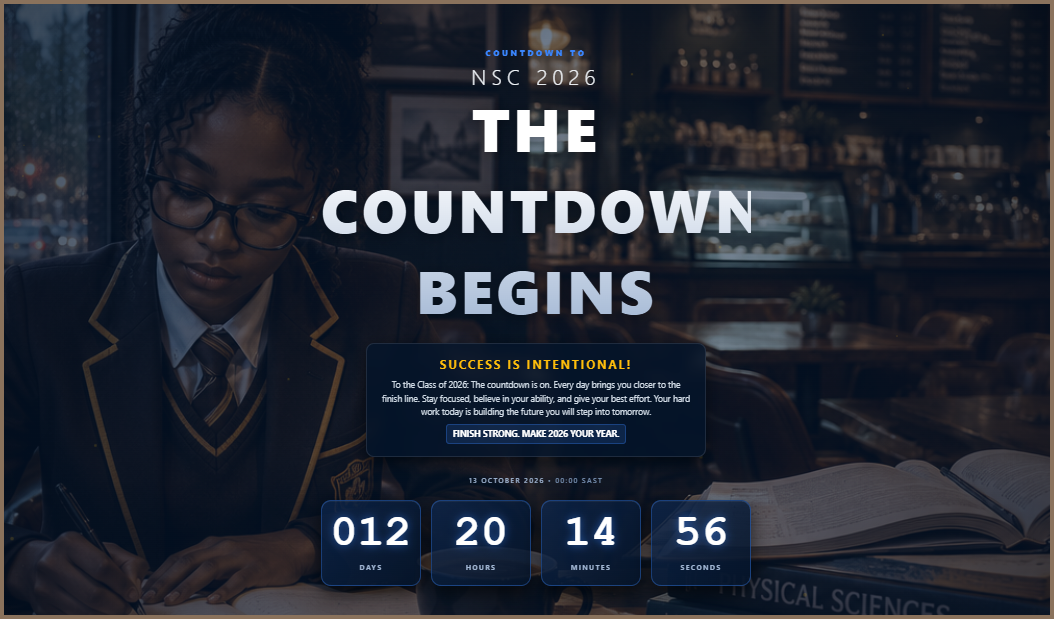
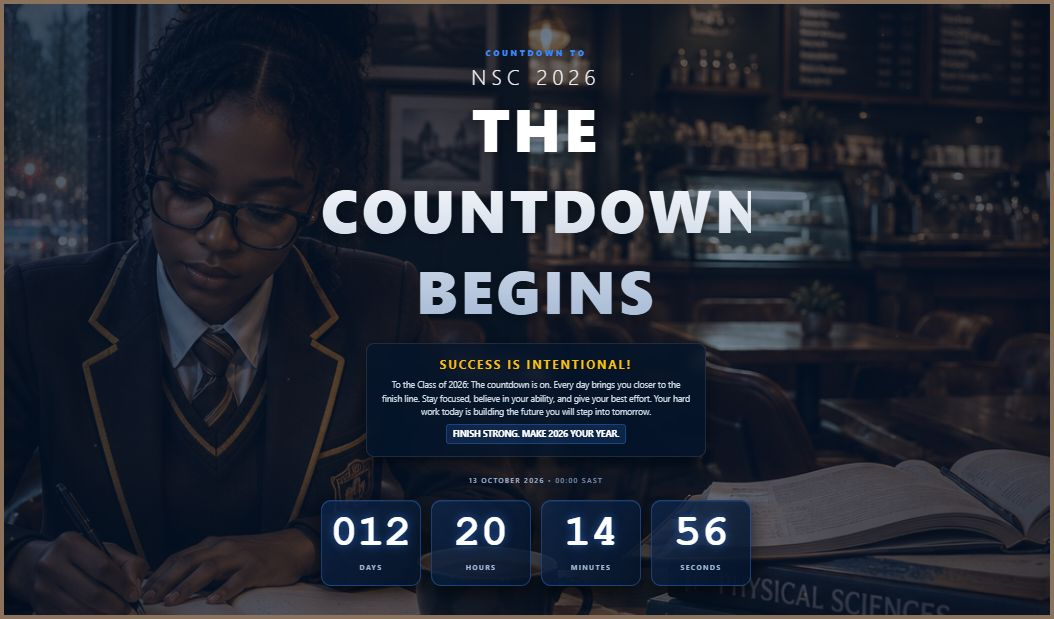
Add files via upload

Changed region(s): [[0.3947, 0.5832, 0.6072, 0.6139], [0.4554, 0.0614, 0.5465, 0.0921], [0.3947, 0.8288, 0.425, 0.9208]]

diff --git a/script.js b/script.js
@@ -1,71 +1,81 @@
 const target = new Date("2026-10-13T00:00:00+02:00").getTime();
-const d = document.getElementById("days"),
-      h = document.getElementById("hours"),
-      m = document.getElementById("minutes"),
-      s = document.getElementById("seconds"),
-      timer = document.getElementById("timer");
-
+const $ = id => document.getElementById(id);
+const d = $("days"), h = $("hours"), m = $("minutes"), s = $("seconds"), timer = $("timer");
+const reduce = matchMedia("(prefers-reduced-motion: reduce)").matches;
 const pad = (n, l = 2) => String(n).padStart(l, "0");
+let finished = false;
 
-// Safe DOM update wrapper to apply micro-scale animations only when time digits tick over
-function setTimeValue(element, newValue) {
-    if (element && element.textContent !== newValue) {
-        element.textContent = newValue;
-        element.classList.remove("pop");
-        void element.offsetWidth; // Explict reflow execution to reset the CSS animation timeline state
-        element.classList.add("pop");
+function setTimeValue(el, v, frac) {
+    if (!el) return;
+    if (el.textContent !== v) {
+        el.textContent = v;
+        el.classList.remove("pop"); void el.offsetWidth; el.classList.add("pop");
     }
+    if (frac !== undefined) el.parentElement.style.setProperty("--p", frac);
 }
 
 function update() {
-    let x = target - Date.now();
-    
-    // Check if the target milestone has arrived or passed
+    const x = target - Date.now();
     if (x <= 0) {
-        if (timer) {
-            timer.innerHTML = `
-                <div style="grid-column: 1 / -1; padding: 40px 20px; border-color: #ffbe0b; background: rgba(255, 190, 11, 0.08); border-radius: 20px;">
-                    <b style="font-family: 'Segoe UI', Arial, sans-serif; font-size: clamp(22px, 4.5vw, 42px); text-shadow: 0 0 25px rgba(255,190,11,0.4); color: #ffbe0b; font-weight: 700; display: block; text-align: center;">
-                        NSC 2026 HAS ARRIVED
-                    </b>
-                </div>`;
-        }
+        if (!finished) { finished = true; finish(); }
         return;
     }
-    
-    let t = Math.floor(x / 1000);
-    
-    setTimeValue(d, pad(Math.floor(t / 86400), 3));
-    setTimeValue(h, pad(Math.floor((t % 86400) / 3600)));
-    setTimeValue(m, pad(Math.floor((t % 3600) / 60)));
-    setTimeValue(s, pad(t % 60));
+    const t = Math.floor(x / 1000);
+    timer.classList.toggle("urgent", x < 864e5);
+    setTimeValue(d, pad(Math.floor(t / 86400), 3), 1);
+    setTimeValue(h, pad(Math.floor((t % 86400) / 3600)), ((t % 86400) / 3600 | 0) / 24 + 0.04);
+    setTimeValue(m, pad(Math.floor((t % 3600) / 60)), ((t % 3600) / 60 | 0) / 60 + 0.02);
+    setTimeValue(s, pad(t % 60), (t % 60) / 60 + 0.02);
 }
 
-// Background Particle Engine
+function finish() {
+    timer.classList.remove("urgent");
+    timer.innerHTML = `<div style="grid-column:1/-1;padding:40px 20px;border-color:#ffbe0b;background:rgba(255,190,11,.1)">
+        <b style="font-size:clamp(34px,7vw,80px);color:#ffbe0b;text-shadow:0 0 30px rgba(255,190,11,.6)">NSC 2026 HAS ARRIVED</b>
+        <small style="color:#fff;font-size:clamp(12px,2vw,18px)">GOOD LUCK, CLASS OF 2026 — FINISH STRONG!</small></div>`;
+    if (!reduce) confetti();
+}
+
+// Bokeh lights
 function initParticles() {
-    const container = document.getElementById("particles");
-    if (!container) return;
-    
-    const count = 35; // Maximum floating background nodes to preserve processing capacity
-    for (let i = 0; i < count; i++) {
-        const particle = document.createElement("div");
-        particle.classList.add("particle");
-        
-        // Randomize sizing constraints between 3px and 9px
-        const size = Math.random() * 6 + 3;
-        particle.style.width = `${size}px`;
-        particle.style.height = `${size}px`;
-        particle.style.left = `${Math.random() * 100}%`;
-        
-        // Stagger generation delays and speeds to distribute flow arrays uniformly
-        particle.style.animationDelay = `${Math.random() * 15}s`;
-        particle.style.animationDuration = `${Math.random() * 10 + 10}s`;
-        
-        container.appendChild(particle);
+    const c = $("particles"); if (!c || reduce) return;
+    for (let i = 0; i < 28; i++) {
+        const p = document.createElement("div"); p.className = "particle";
+        const z = Math.random() * 26 + 8;
+        p.style.cssText = `width:${z}px;height:${z}px;left:${Math.random()*100}%;animation-delay:${-Math.random()*20}s;animation-duration:${Math.random()*14+16}s;opacity:${Math.random()*.5+.3}`;
+        c.appendChild(p);
     }
 }
 
-// Initialization runtime triggers
-initParticles();
-update();
-setInterval(update, 250);
+// Mouse parallax + tile tilt (desktop only)
+function initParallax() {
+    if (reduce || !matchMedia("(hover:hover)").matches) return;
+    const bg = document.querySelector(".bg"), tiles = [...timer.children];
+    addEventListener("pointermove", e => {
+        const x = e.clientX / innerWidth - .5, y = e.clientY / innerHeight - .5;
+        bg.style.translate = `${x * -18}px ${y * -12}px`;
+        tiles.forEach(t => t.style.transform = `perspective(700px) rotateY(${x * 8}deg) rotateX(${y * -8}deg)`);
+    });
+}
+
+// Confetti finale
+function confetti() {
+    const cv = $("confetti"), ctx = cv.getContext("2d");
+    const fit = () => { cv.width = innerWidth; cv.height = innerHeight; }; fit(); addEventListener("resize", fit);
+    const cols = ["#ffbe0b", "#3a86ff", "#ffffff", "#ffd166"];
+    const ps = Array.from({ length: 220 }, () => ({ x: Math.random() * cv.width, y: -Math.random() * cv.height * .6, w: Math.random() * 9 + 5, h: Math.random() * 5 + 4,
+        vy: Math.random() * 3 + 2, vx: Math.random() * 2 - 1, r: Math.random() * 6, vr: Math.random() * .2 - .1, c: cols[Math.random() * 4 | 0] }));
+    (function frame() {
+        ctx.clearRect(0, 0, cv.width, cv.height);
+        ps.forEach(p => { p.y += p.vy; p.x += p.vx; p.r += p.vr; ctx.save(); ctx.translate(p.x, p.y); ctx.rotate(p.r); ctx.fillStyle = p.c; ctx.fillRect(-p.w / 2, -p.h / 2, p.w, p.h); ctx.restore(); });
+        if (ps.some(p => p.y < cv.height + 20)) requestAnimationFrame(frame); else ctx.clearRect(0, 0, cv.width, cv.height);
+    })();
+}
+
+// WhatsApp share
+const sh = $("share");
+if (sh) sh.href = "https://wa.me/?text=" + encodeURIComponent("Countdown to GDE NSC 2026 — Success is Intentional! " + location.href.split("#")[0]);
+
+initParticles(); initParallax(); update();
+let timerId = setInterval(update, 250);
+document.addEventListener("visibilitychange", () => { clearInterval(timerId); if (!document.hidden) { update(); timerId = setInterval(update, 250); } });

diff --git a/style.css b/style.css
@@ -18,10 +18,8 @@ body {
     flex-direction: column;
     justify-content: space-between;
     align-items: center;
-    /* Combines a dark radial mask with the cafe picture to protect text visibility */
-    background: radial-gradient(circle at center, rgba(8, 41, 82, 0.05) 0%, rgba(3, 20, 43, 0.22) 65%, rgba(1, 7, 16, 0.45) 100%),
-                url('image_gvVeYG.png') no-repeat center center fixed;
-    background-size: cover;
+    background: #020914;
+    overflow-x: hidden;
 }
 
 main {
@@ -311,4 +309,59 @@ h2 {
         padding: 10px 16px;
         text-align: center;
     }
+}
+
+
+/* ===== WOW UPGRADE ===== */
+.bg, .bg-shade { position: fixed; inset: 0; z-index: 0; pointer-events: none; }
+.bg {
+    background: #020914 url('bg-tiny.webp') center/cover;
+    transform: scale(1.06);
+    animation: bgIn 2.2s ease-out both, drift 40s ease-in-out 2.2s infinite alternate;
+}
+.bg::before { content:""; position:absolute; inset:0; background: url('bg.webp') center/cover; animation: fadeIn 1.2s ease-out both; }
+.bg-shade { background: radial-gradient(circle at 50% 45%, rgba(8,41,82,.05) 0%, rgba(3,20,43,.25) 65%, rgba(1,7,16,.55) 100%); }
+@keyframes fadeIn { from {opacity:0} to {opacity:1} }
+@keyframes bgIn { from { opacity:0; transform: scale(1.18);} to { opacity:1; transform: scale(1.06);} }
+@keyframes drift { from { transform: scale(1.06) translate(0,0);} to { transform: scale(1.12) translate(-1.2%,-1%);} }
+
+/* Warm bokeh instead of hard dots */
+.particle { background: radial-gradient(circle, rgba(255,200,90,.55), rgba(255,170,40,.12) 70%, transparent); filter: blur(1.5px); }
+
+/* Typography hierarchy: numbers are the hero */
+#timer b { font: 400 clamp(54px, 11vw, 132px)/.9 'Bebas Neue', Impact, 'Arial Narrow', sans-serif; letter-spacing: .03em; font-variant-numeric: tabular-nums;
+    text-shadow: 0 0 28px rgba(58,134,255,.75), 0 4px 14px rgba(0,0,0,.6); }
+.brand { font-family: 'Bebas Neue', Impact, sans-serif; font-weight: 400; letter-spacing: .08em; }
+#timer > div { position: relative; overflow: hidden; }
+#timer > div::after { content:""; position:absolute; left:0; bottom:0; height:4px; width: calc(var(--p, 1) * 100%);
+    background: linear-gradient(90deg,#3a86ff,#ffbe0b); box-shadow: 0 0 12px rgba(255,190,11,.7); transition: width .3s linear; }
+
+/* Digit roll */
+.pop { animation: roll .45s cubic-bezier(.2,.9,.3,1.2); }
+@keyframes roll { 0% { transform: translateY(-38%) rotateX(70deg); opacity:0; } 100% { transform: none; opacity:1; } }
+
+/* Final 24 hours */
+#timer.urgent > div { border-color: rgba(255,190,11,.75); animation: beat 1.2s ease-in-out infinite; }
+#timer.urgent b { color:#ffd166; text-shadow: 0 0 30px rgba(255,190,11,.85); }
+@keyframes beat { 50% { box-shadow: 0 15px 35px rgba(0,0,0,.6), 0 0 34px rgba(255,190,11,.45); } }
+
+/* Staggered entrance */
+.header-group, .message-card, .target, #timer > div, .share { animation: rise .9s cubic-bezier(.2,.8,.2,1) both; }
+.header-group { animation-delay: .5s; } .message-card { animation-delay: .8s; } .target { animation-delay: 1.0s; }
+#timer > div:nth-child(1){animation-delay:1.15s} #timer > div:nth-child(2){animation-delay:1.3s}
+#timer > div:nth-child(3){animation-delay:1.45s} #timer > div:nth-child(4){animation-delay:1.6s} .share { animation-delay: 1.9s; }
+@keyframes rise { from { opacity:0; transform: translateY(28px); } to { opacity:1; transform:none; } }
+.site-nav { animation: fadeIn 1s ease-out .3s both; }
+
+.share { display:inline-block; margin: 0 auto 10px; padding: 12px 28px; border-radius: 999px; background: #25d366; color:#04230f;
+    font-weight: 800; letter-spacing:.06em; text-decoration:none; box-shadow: 0 8px 24px rgba(0,0,0,.45); transition: transform .2s, box-shadow .2s; }
+.share:hover { transform: translateY(-3px) scale(1.03); box-shadow: 0 12px 30px rgba(37,211,102,.4); }
+.share:focus-visible { outline: 2px solid #ffbe0b; outline-offset: 3px; }
+
+#confetti { position: fixed; inset:0; width:100%; height:100%; z-index: 50; pointer-events:none; }
+#timer > div { transition: transform .15s ease-out, border-color .3s; will-change: transform; }
+
+@media (prefers-reduced-motion: reduce) {
+    *, *::before, *::after { animation: none !important; transition: none !important; }
+    #particles { display: none; }
 }

diff --git a/index.html b/index.html
@@ -25,9 +25,17 @@
     <meta name="twitter:description" content="Success is Intentional! The countdown is on for the Class of 2026.">
     <meta name="twitter:image" content="https://garyberends35-spec.github.io/nsc2026-countdown/share-preview.jpg">
 
+    <link rel="preconnect" href="https://fonts.googleapis.com">
+    <link rel="preconnect" href="https://fonts.gstatic.com" crossorigin>
+    <link href="https://fonts.googleapis.com/css2?family=Bebas+Neue&display=swap" rel="stylesheet">
+    <link rel="preload" as="image" href="bg.webp" type="image/webp">
     <link rel="stylesheet" href="style.css">
 </head>
 <body>
+
+    <!-- Cinematic background (fixed layer: smooth on iOS, slow zoom) -->
+    <div class="bg" aria-hidden="true"></div>
+    <div class="bg-shade" aria-hidden="true"></div>
 
     <!-- Top navigation -->
     <header class="site-nav">
@@ -64,7 +72,7 @@
         <p class="target">13 OCTOBER 2026 <span>• 00:00 SAST</span></p>
 
         <!-- Live JavaScript Countdown Display Grid -->
-        <div id="timer">
+        <div id="timer" role="timer" aria-live="off">
             <div>
                 <b id="days">000</b>
                 <small>DAYS</small>
@@ -82,7 +90,10 @@
                 <small>SECONDS</small>
             </div>
         </div>
+
+        <a class="share" id="share" href="#" target="_blank" rel="noopener noreferrer">Share on WhatsApp</a>
     </main>
+    <canvas id="confetti" aria-hidden="true"></canvas>
 
     <footer class="full-width-footer">
         <!-- Replace 'gauteng-logo.png' with your local Gauteng Department of Education logo path -->
